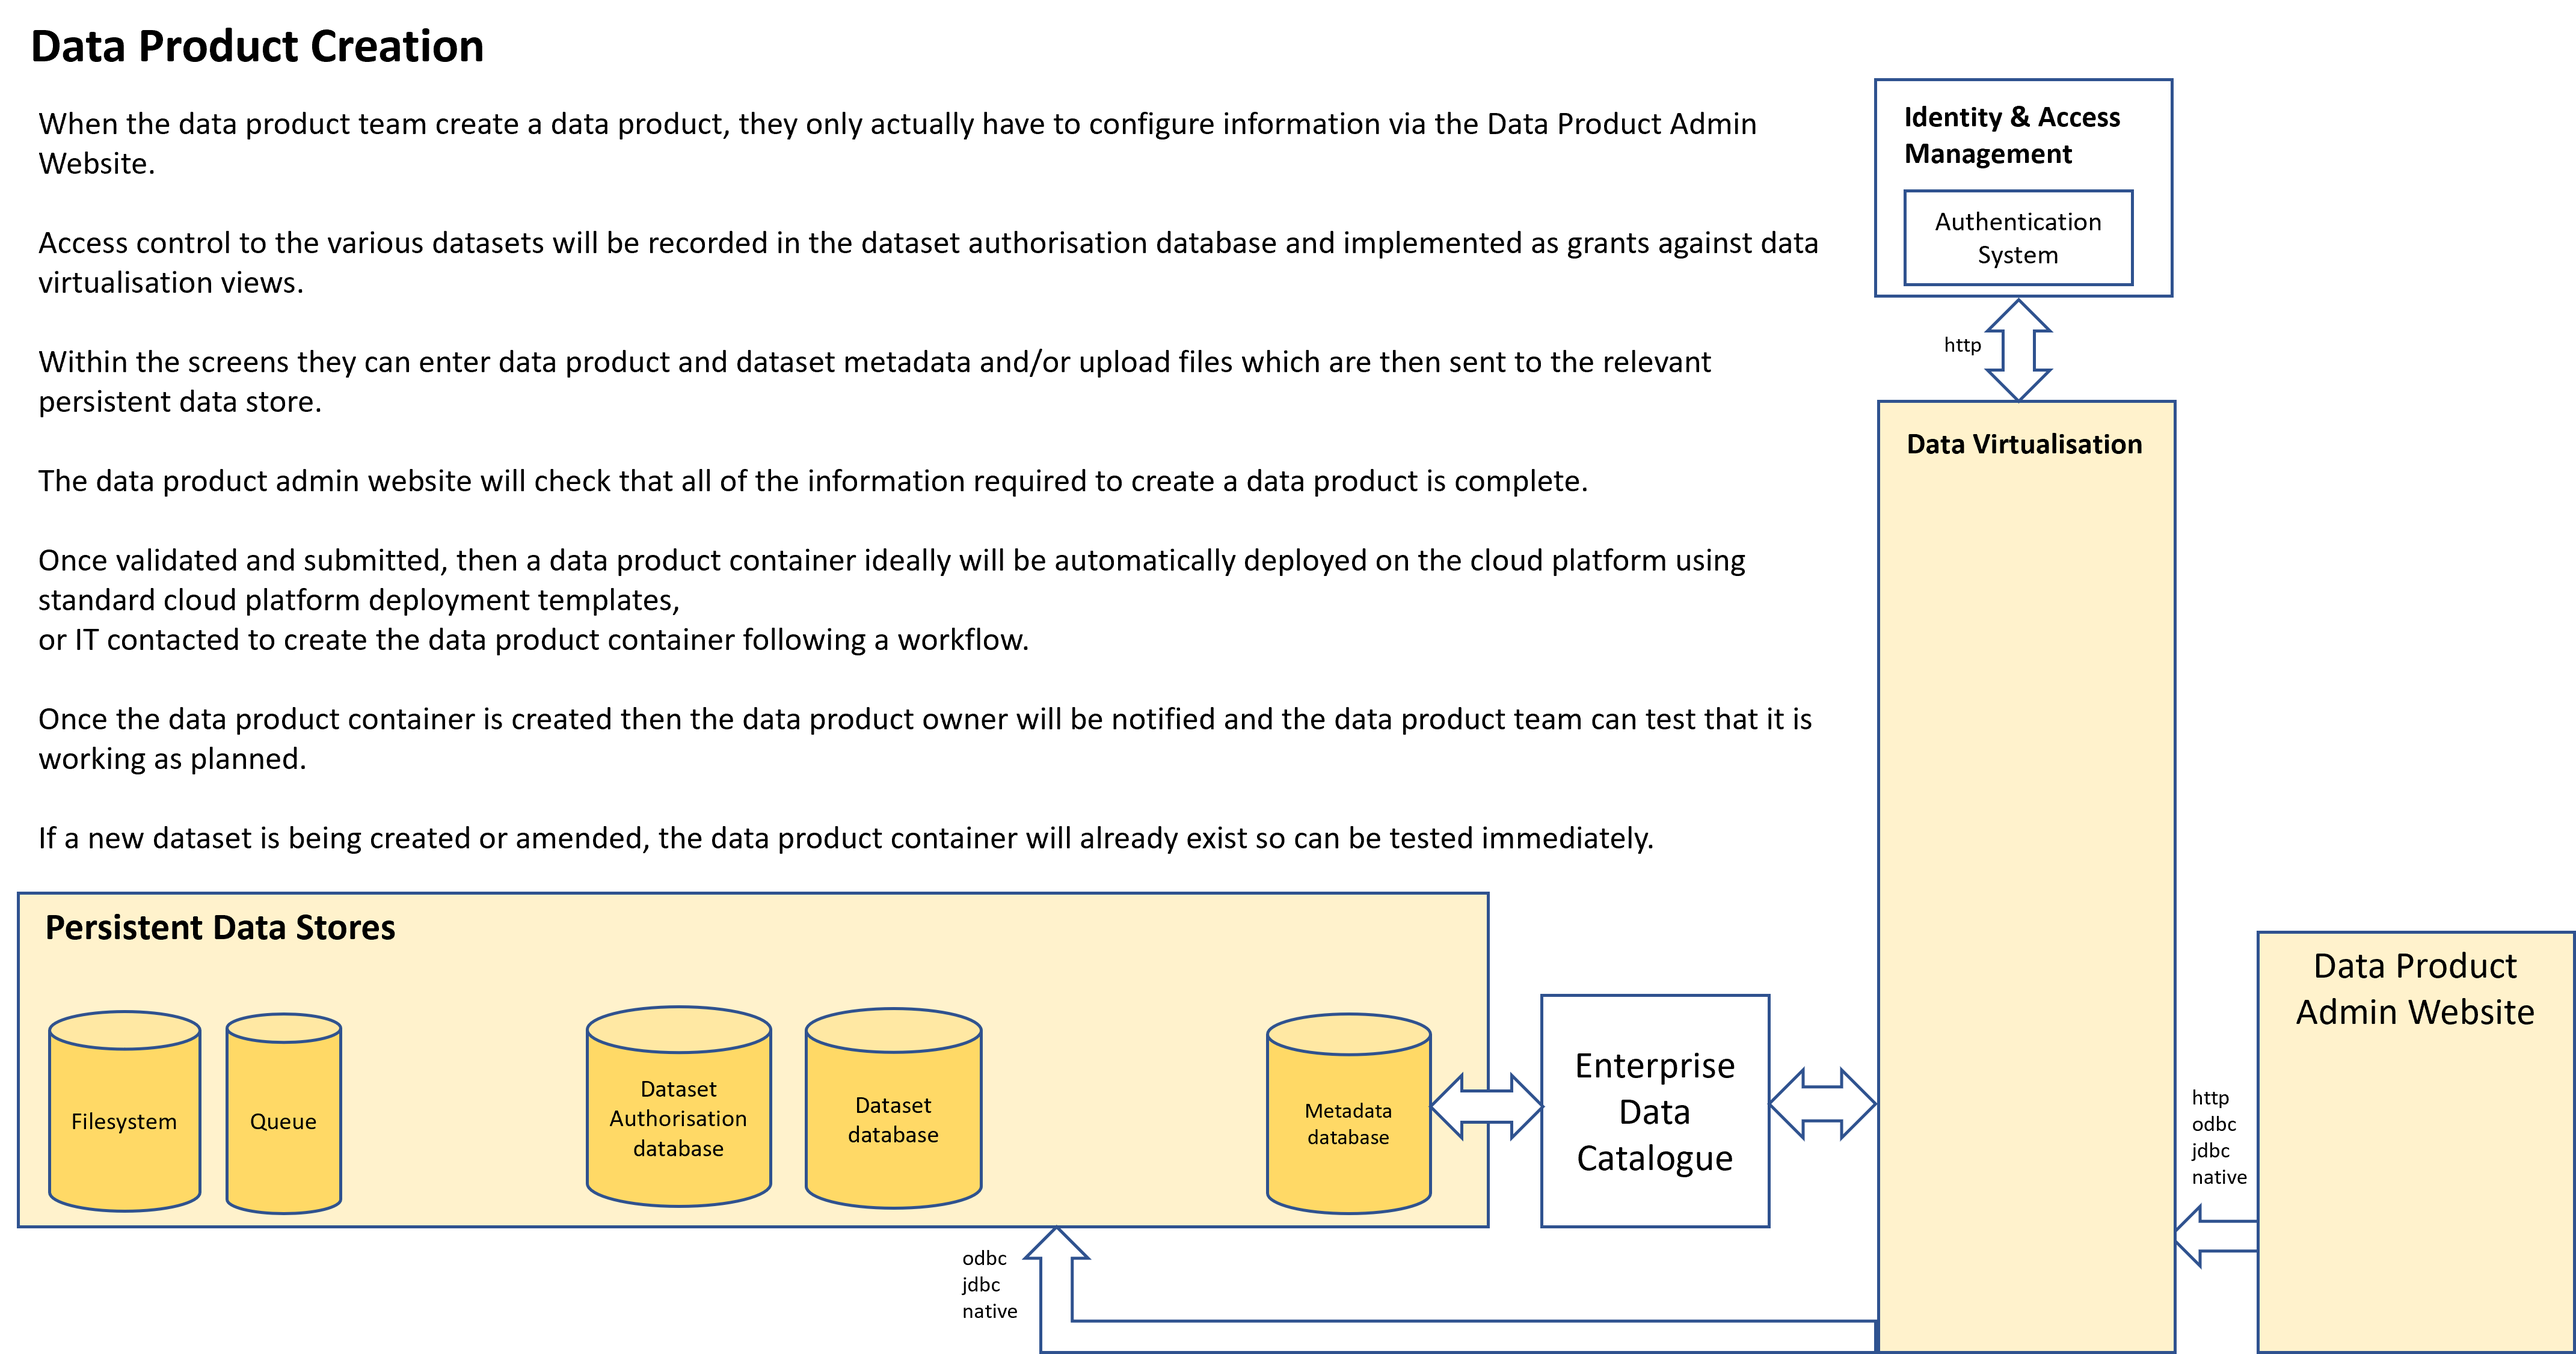
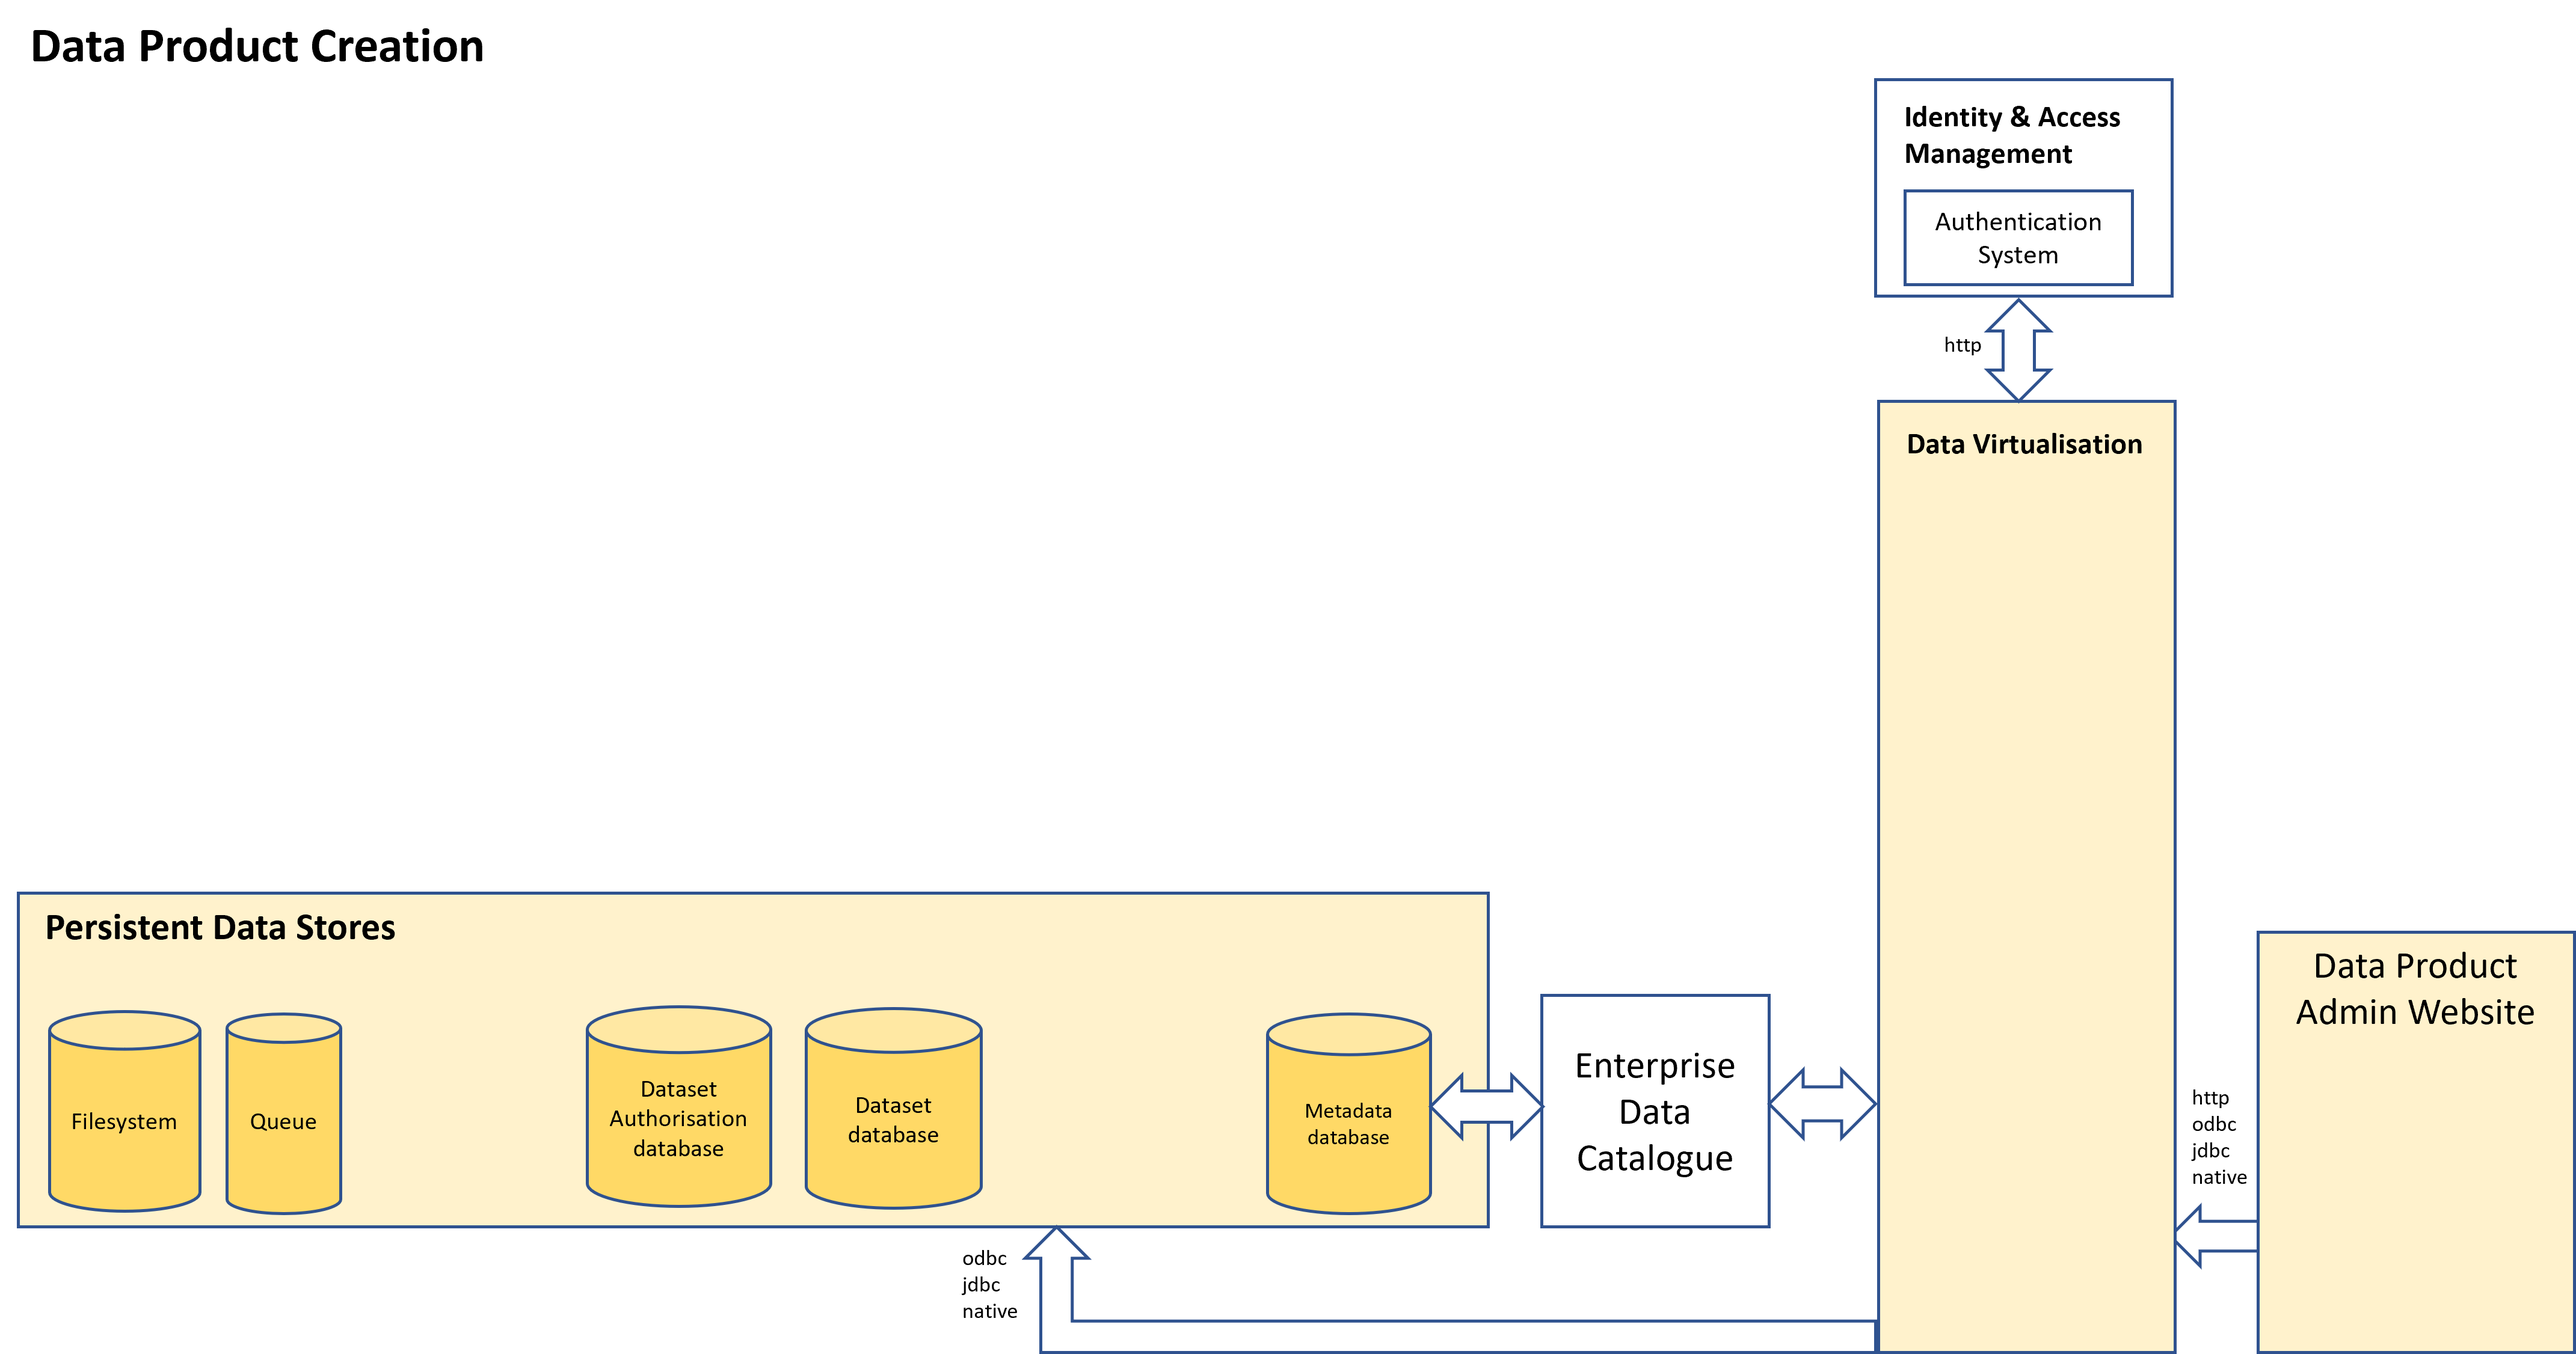
Amended some of the architecure diagrams. Added wording to the data-product-and-dataset-creation.md which I removed from data-product-creation.png and added an extra criteria to dp-admin-website.md

diff --git a/data-product-and-dataset-creation.md b/data-product-and-dataset-creation.md
@@ -1,4 +1,24 @@
 # Data Product & Dataset Creation
 
-The diagram below explains how it's envisaged that Data Products & Datasets can be created
+When the data product admin team create a data product, they only actually have to configure information via:-
+
+* The Enterprise Data Catalog (Collibra)
+* The Data Product Admin Website.
+
+Within the Enterprise Data Catalog the data product admin team can:-
+
+* Enter data product and dataset metadata
+* Create the technical data quality rules
+
+Within the data product admin website, the team can:-
+
+* Create, view and update the configuration information to connect to the persistent data stores and microservices container.
+* Create, view and update data source configuration information
+* Create, view and update the pipeline sql which is used to move datasets from the input to the output data layer
+* Upload the pipeline sql to the microservices container
+* Trigger the execution of the pipeline sql within the microservices container
+* Maintain the dataset user/group permissions - Access control to the various datasets will be recorded in the dataset authorisation database and implemented as grants against data virtualisation views.
+
+The microservices container will typically be created and deployed to the Azure cloud platform by an IT service team who will then provide the data product admin team with the connection information for the persistent data stores and microservices containers.
+
 ![Data product & dataset creation](data-product-creation.png)

diff --git a/dp-admin-website.md b/dp-admin-website.md
@@ -17,4 +17,5 @@ The data product admin website as a minimum viable product (MVP) should provide 
    * Trigger pulling data in from a specific data source to the input data layer
    * Create, View and update pipeline SQL which will transform and move data from the input data layer to the output data layer
    * Trigger the execution of the pipeline SQL 
+   * Configure dataset user/group permissions and push these to the dataset_auth database
    
